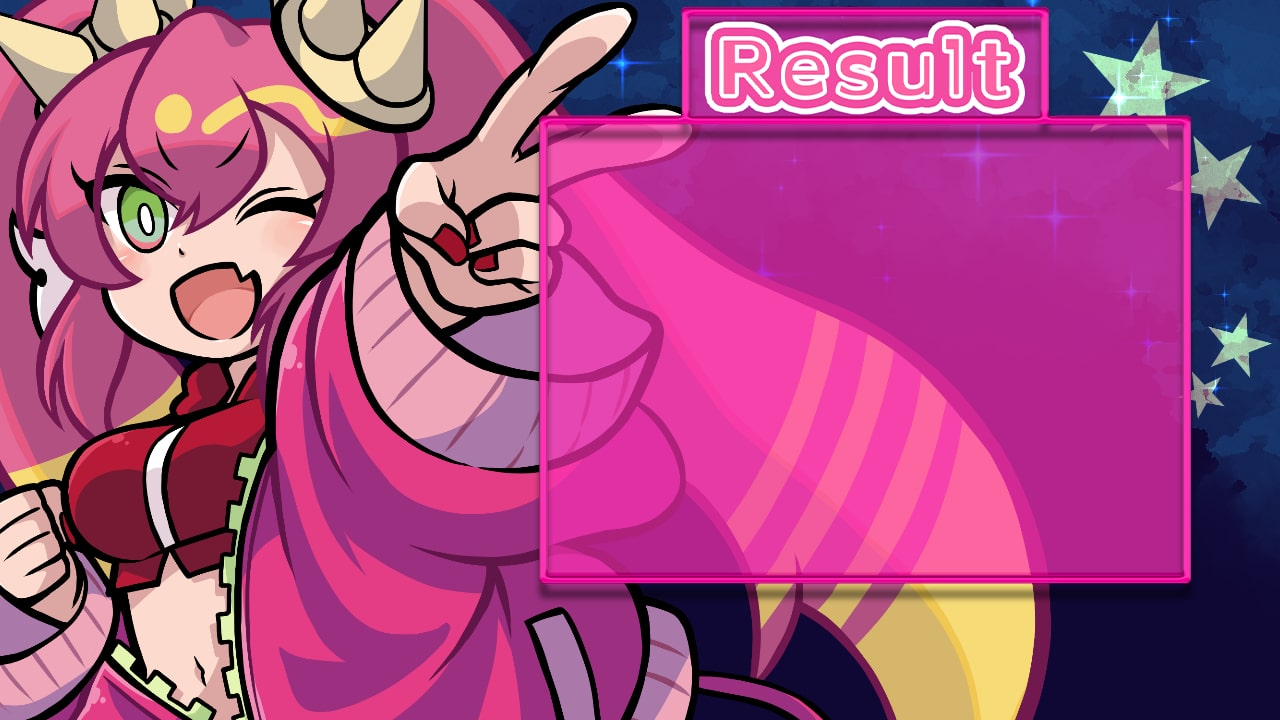
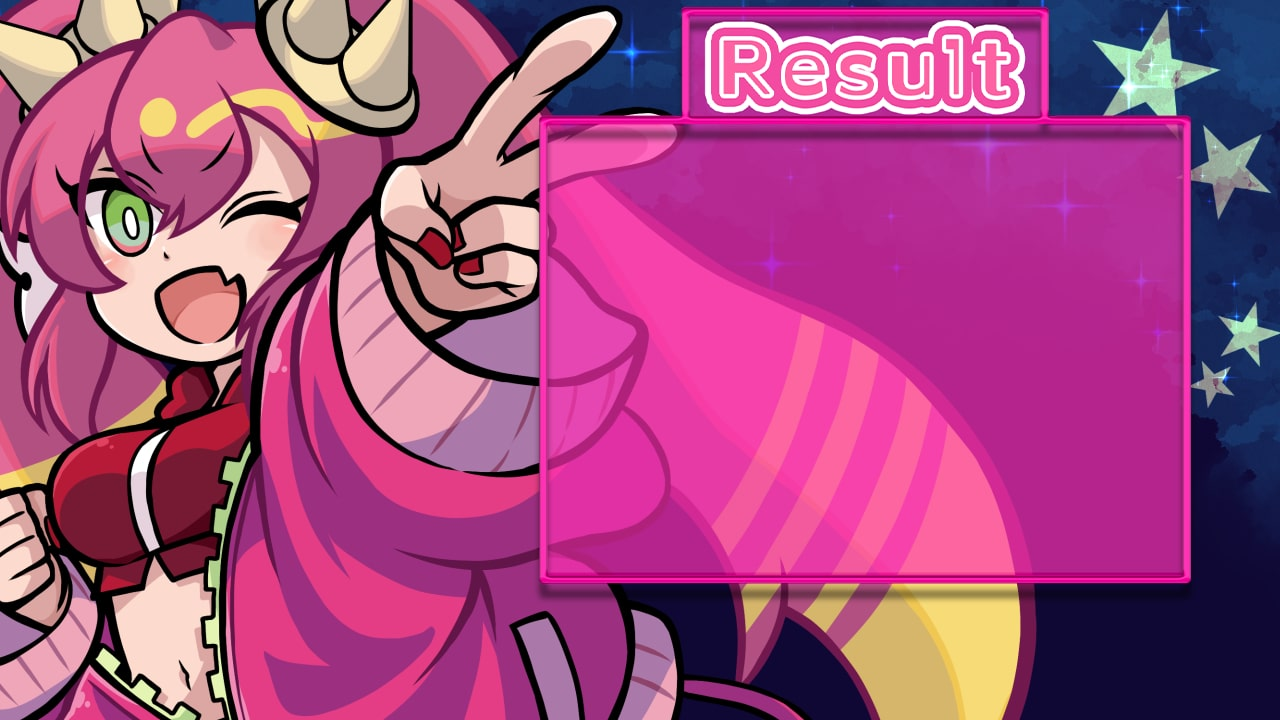
upgrade モンスター追加、リザルト画像AB追加、ラフキル（サイズ要調整）追加

diff --git a/js/asset.js b/js/asset.js
@@ -8,6 +8,8 @@ const MYSTICAL_SPACE_TYPHOON_WIDTH = 194;
 const MYSTICAL_SPACE_TYPHOON_HEIGHT = 219;
 const TREASURE_WIDTH = 71;
 const TREASURE_HEIGHT = 75;
+const ROUGHKIL_WIDTH = 594;
+const ROUGHKIL_HEIGHT = 690;
 
 const AGIDO_WIDTH = 161;
 const AGIDO_HEIGHT = 125;
@@ -33,6 +35,8 @@ const PURELY_WIDTH = 155;
 const PURELY_HEIGHT = 120;
 const SANGAN_WIDTH = 120;
 const SANGAN_HEIGHT = 85;
+const SNAKE_EYES_POPLAR_WIDTH = 156;
+const SNAKE_EYES_POPLAR_HEIGHT = 120;
 const WINGED_KURIBOH_WIDTH = 158;
 const WINGED_KURIBOH_HEIGHT = 104;
 
@@ -74,6 +78,7 @@ var MAIN_ASSET = {
     gallery_img: "assets/img/gallery/gallery.jpg",
     gallery_button_img: "assets/img/gallery/gallery_button.png",
     thank_you_img: "assets/img/gallery/thank_you.png",
+    roughkil_img: "assets/img/gallery/roughkil.png",
 
     // メイン
     main_ground_img: "assets/img/main/main_ground.png",
@@ -103,6 +108,7 @@ var MAIN_ASSET = {
     mystic_tomato_img: "assets/img/monster/mystic_tomato.png",
     purely_img: "assets/img/monster/purely.png",
     sangan_img: "assets/img/monster/sangan.png",
+    snake_eyes_poplar_img: "assets/img/monster/snake_eyes_poplar.png",
     winged_kuriboh_img: "assets/img/monster/winged_kuriboh.png",
   },
   // スプライト情報定義
@@ -355,6 +361,27 @@ var MAIN_ASSET = {
       },
     },
 
+    // ラフキルスプライトシート
+    roughkil_ss: {
+      // 画像の情報
+      frame: {
+        width: ROUGHKIL_WIDTH, // 1コマの横幅
+        height: ROUGHKIL_HEIGHT, // 1コマの縦幅
+        rows: 1, // 画像内に設定されているコマの縦数
+        cols: 1, // 画像内に設定されているコマの横数
+      },
+
+      // アニメーション情報
+      animations: {
+        idle: {
+          // アニメーション名
+          frames: [0], // アニメーションのコマ指定。左上から右下に向かって0,1,2...となる。
+          next: "idle", // アニメーション終了後、次の再生アニメ。同じ名前のものを指定するとループ再生になる
+          frequency: 0, // コマ毎の間隔(数値が小さいほど早くアニメーションする)
+        },
+      },
+    },
+
     // クリボースプライトシート
     kuriboh_ss: {
       // 画像の情報
@@ -382,6 +409,27 @@ var MAIN_ASSET = {
       frame: {
         width: WINGED_KURIBOH_WIDTH, // 1コマの横幅
         height: WINGED_KURIBOH_HEIGHT, // 1コマの縦幅
+        rows: 1, // 画像内に設定されているコマの縦数
+        cols: 2, // 画像内に設定されているコマの横数
+      },
+
+      // アニメーション情報
+      animations: {
+        idle: {
+          // アニメーション名
+          frames: [0, 1], // アニメーションのコマ指定。左上から右下に向かって0,1,2...となる。
+          next: "idle", // アニメーション終了後、次の再生アニメ。同じ名前のものを指定するとループ再生になる
+          frequency: 7, // コマ毎の間隔(数値が小さいほど早くアニメーションする)
+        },
+      },
+    },
+
+    // 蛇眼の炎燐スプライトシート
+    snake_eyes_poplar_ss: {
+      // 画像の情報
+      frame: {
+        width: SNAKE_EYES_POPLAR_WIDTH, // 1コマの横幅
+        height: SNAKE_EYES_POPLAR_HEIGHT, // 1コマの縦幅
         rows: 1, // 画像内に設定されているコマの縦数
         cols: 2, // 画像内に設定されているコマの横数
       },
@@ -655,6 +703,7 @@ var RESULT_ASSET = {
   image: {
     // リザルト
     result_back_S_img: "assets/img/result/result_back_S.jpg",
+    result_back_AB_img: "assets/img/result/result_back_AB.jpg",
     result_back_CD_img: "assets/img/result/result_back_CD.jpg",
     result_back_EF_img: "assets/img/result/result_back_EF.jpg",
     result_title_button_img: "assets/img/result/result_title_button.png",

diff --git a/js/Scenes/SceneMain.js b/js/Scenes/SceneMain.js
@@ -22,6 +22,7 @@ phina.define("SceneMain", {
     g_level = LEVEL_1;
     g_hornKisikilFlag = OFF;
     g_kisikilAtk = 500;
+    g_tempScore = 0;
     this.deathName = "バグってます";
     this.gameEndType = 0;
     this.atk = 0;
@@ -233,7 +234,7 @@ phina.define("SceneMain", {
         // モンスター生成時、7%の確率でアイテム出現
         var spawnFlag = Math.randint(0, 99);
         if (10 <= spawnFlag) {
-          var monsterFlag = Math.randint(0, 12);
+          var monsterFlag = Math.randint(0, 13);
           if (0 === monsterFlag) {
             // ハネクリボー
             monster = ObjectWingedKuriboh(
@@ -307,6 +308,12 @@ phina.define("SceneMain", {
               g_groundLine
             ).addChildTo(e);
           } else if (12 === monsterFlag) {
+            // 蛇眼の炎燐
+            monster = ObjectSnakeEyesPoplar(
+              this.gridX.span(16),
+              g_groundLine
+            ).addChildTo(e);
+          } else if (13 === monsterFlag) {
             // ゲート・ブロッカー
             monster = ObjectGateblocker(
               this.gridX.span(16),

diff --git a/js/Objects/MonsterObjects/ObjectSnakeEyesPoplar.js b/js/Objects/MonsterObjects/ObjectSnakeEyesPoplar.js
@@ -1,0 +1,19 @@
+// クリッターオブジェクトクラス
+phina.define("ObjectSnakeEyesPoplar", {
+  superClass: "ObjectMonster", //モンスター親クラス継承
+
+  // 初期化
+  init: function (x, y) {
+    this.superInit(
+      "snake_eyes_poplar_img",
+      "snake_eyes_poplar_ss",
+      x, //座標x
+      y, //座標y
+      10, //速さ
+      150, //サイズx
+      150, //サイズy
+      700, //攻撃力
+      "蛇眼の炎燐", //名前
+    );
+  },
+});

diff --git a/js/Scenes/SceneResultAnime.js b/js/Scenes/SceneResultAnime.js
@@ -27,8 +27,8 @@ phina.define("SceneResultAnime", {
       "result_back_EF_img", // ランクE
       "result_back_CD_img", // ランクD
       "result_back_CD_img", // ランクC
-      "result_back_CD_img", // ランクB
-      "result_back_CD_img", // ランクA
+      "result_back_AB_img", // ランクB
+      "result_back_AB_img", // ランクA
       "result_back_S_img", // ランクS
     ];
     var result_back = Sprite(listResultBack[g_level]);

diff --git a/js/Scenes/SceneResult.js b/js/Scenes/SceneResult.js
@@ -15,8 +15,8 @@ phina.define("SceneResult", {
       "result_back_EF_img", // ランクE
       "result_back_CD_img", // ランクD
       "result_back_CD_img", // ランクC
-      "result_back_CD_img", // ランクB
-      "result_back_CD_img", // ランクA
+      "result_back_AB_img", // ランクB
+      "result_back_AB_img", // ランクA
       "result_back_S_img", // ランクS
     ];
     var result_back = Sprite(listResultBack[g_level]);

diff --git a/index.html b/index.html
@@ -91,6 +91,7 @@
     <script src="js/Objects/MonsterObjects/ObjectMysticTomato.js"></script>
     <script src="js/Objects/MonsterObjects/ObjectPurely.js"></script>
     <script src="js/Objects/MonsterObjects/ObjectSangan.js"></script>
+    <script src="js/Objects/MonsterObjects/ObjectSnakeEyesPoplar.js"></script>
     <script src="js/Objects/MonsterObjects/ObjectWingedKuriboh.js"></script>
   </body>
 </html>
